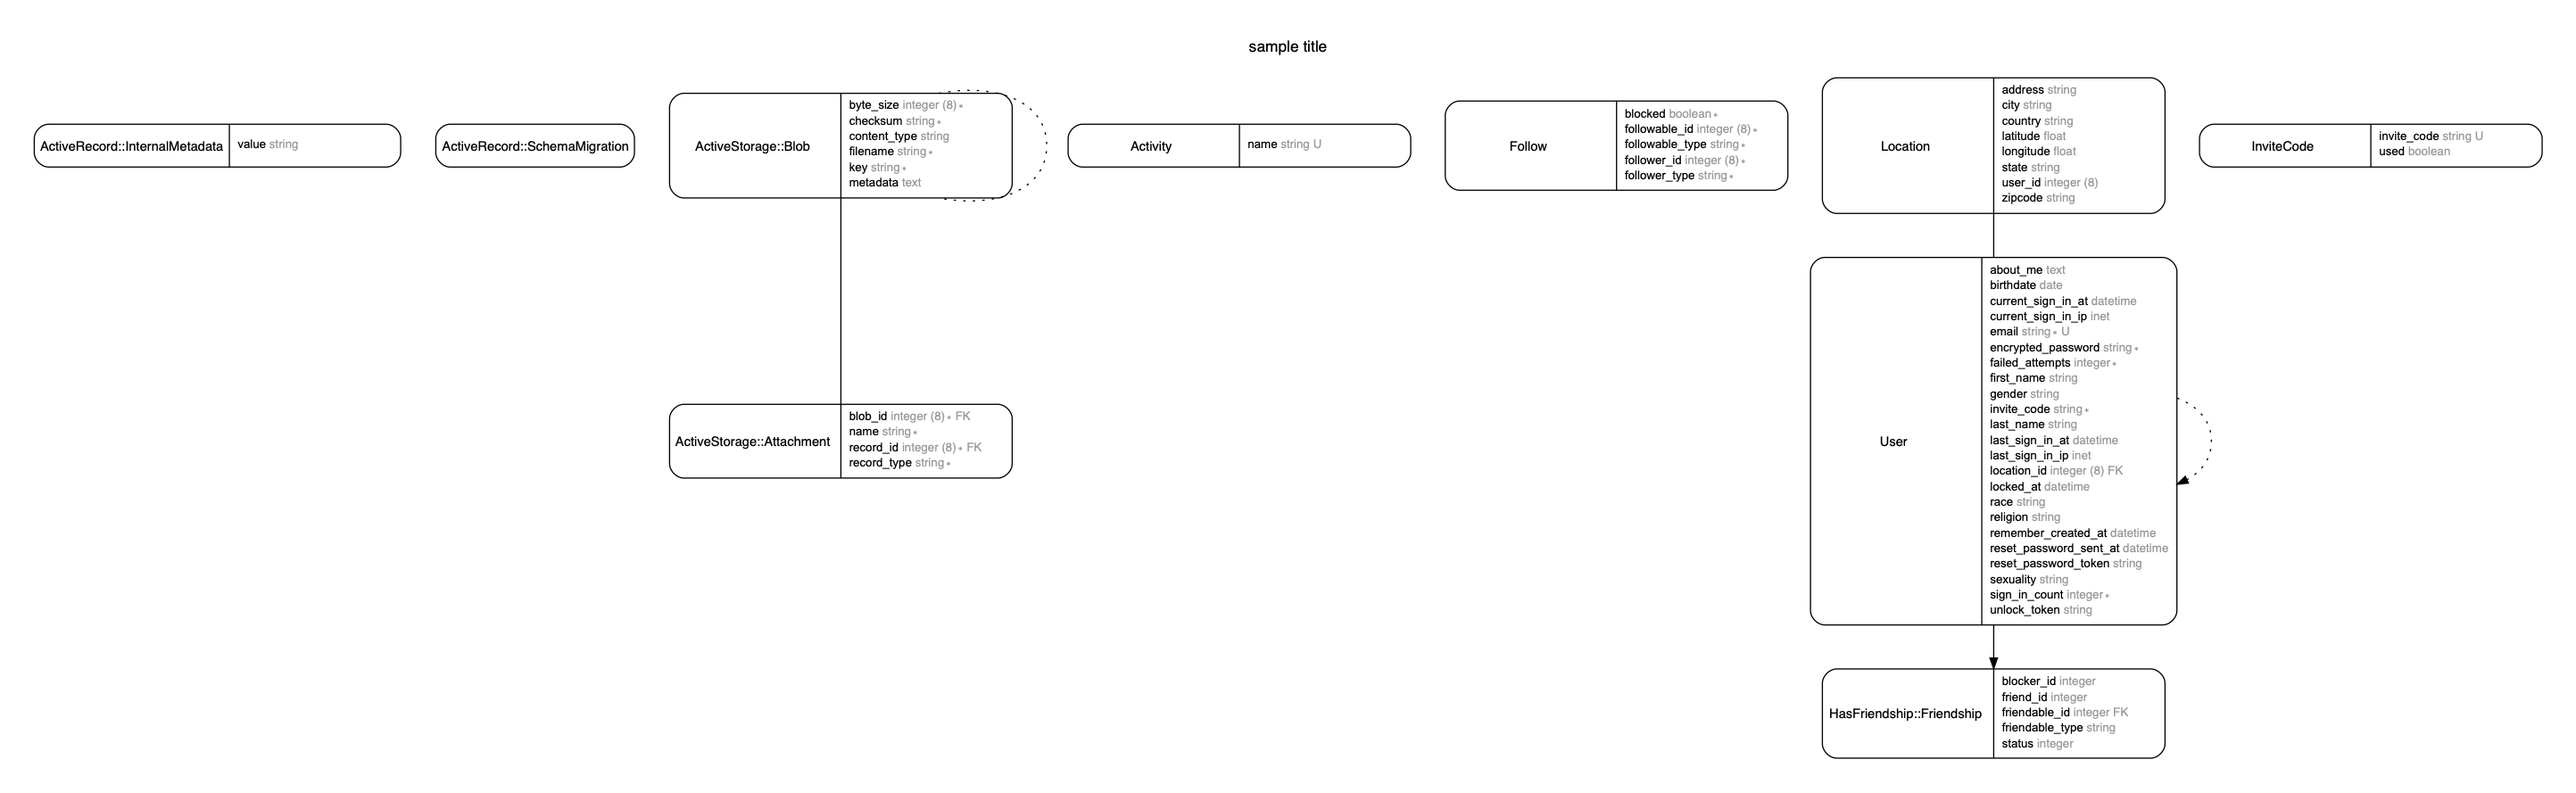
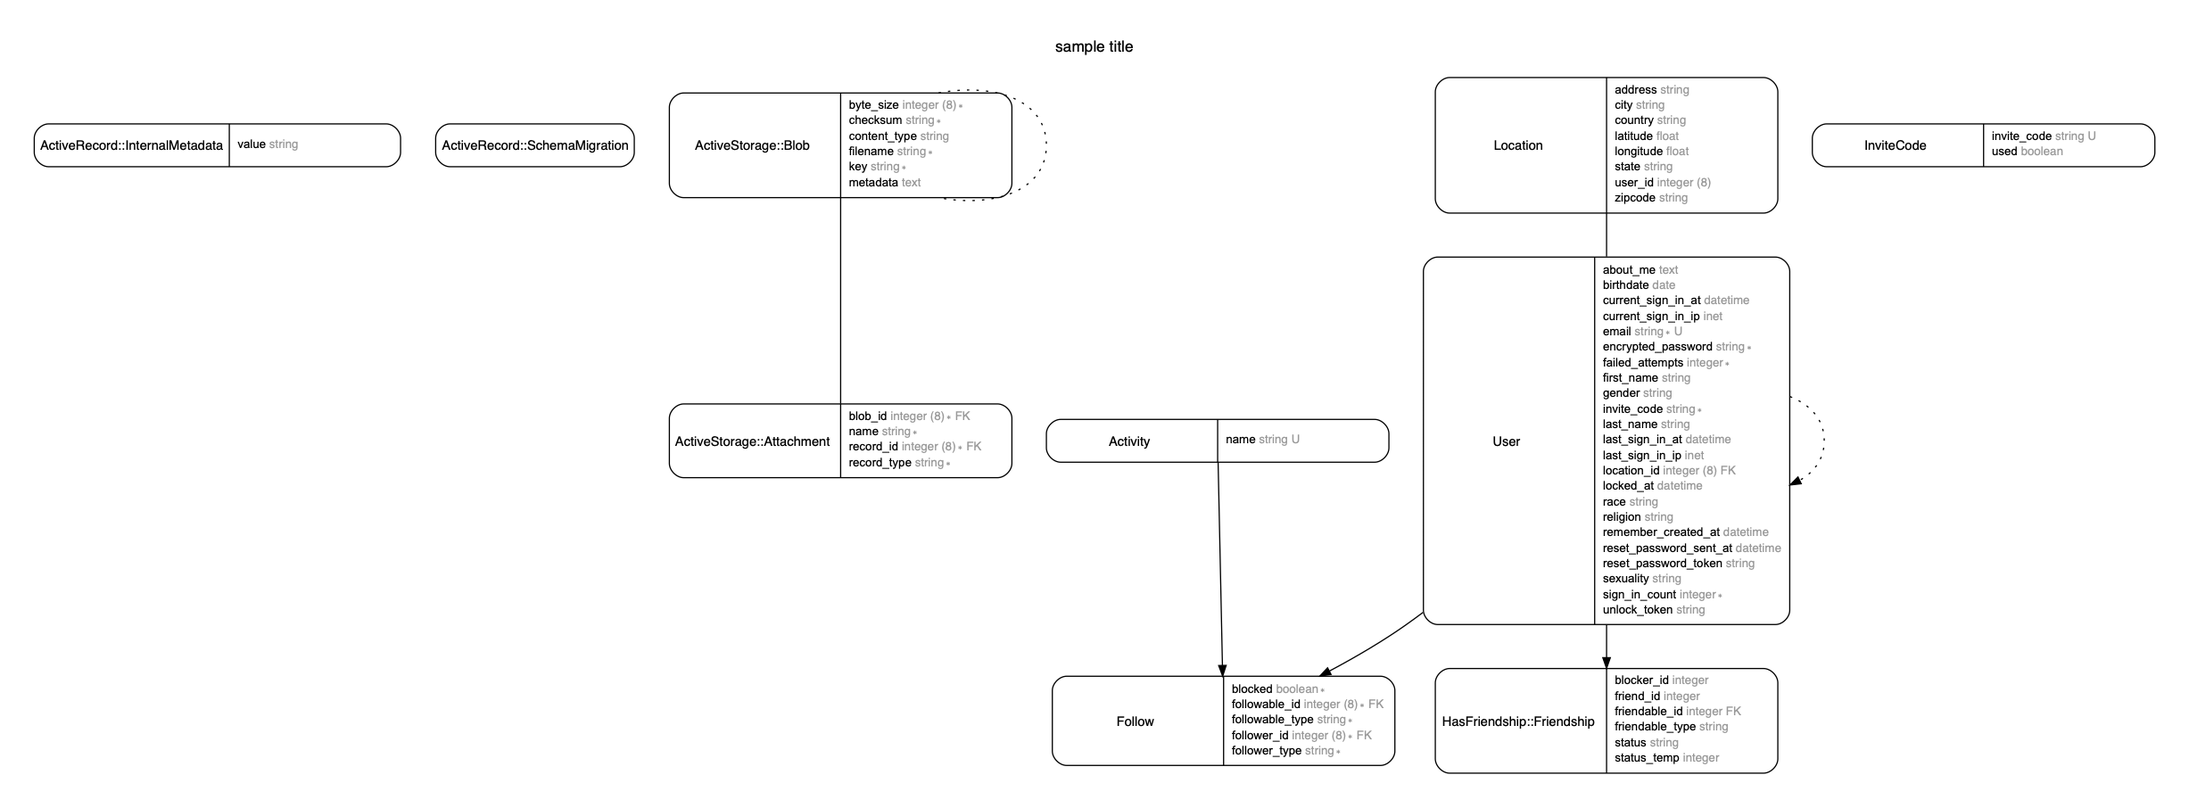
user friend request needs to be implmented next.

diff --git a/db/schema.rb b/db/schema.rb
@@ -74,16 +74,6 @@ ActiveRecord::Schema.define(version: 2019_08_13_183502) do
     t.datetime "updated_at", null: false
   end
 
-  create_table "likes", force: :cascade do |t|
-    t.string "liker_type"
-    t.integer "liker_id"
-    t.string "likeable_type"
-    t.integer "likeable_id"
-    t.datetime "created_at"
-    t.index ["likeable_id", "likeable_type"], name: "fk_likeables"
-    t.index ["liker_id", "liker_type"], name: "fk_likes"
-  end
-
   create_table "locations", force: :cascade do |t|
     t.float "latitude"
     t.float "longitude"
@@ -96,16 +86,6 @@ ActiveRecord::Schema.define(version: 2019_08_13_183502) do
     t.string "zipcode"
     t.bigint "user_id"
     t.index ["user_id"], name: "index_locations_on_user_id"
-  end
-
-  create_table "mentions", force: :cascade do |t|
-    t.string "mentioner_type"
-    t.integer "mentioner_id"
-    t.string "mentionable_type"
-    t.integer "mentionable_id"
-    t.datetime "created_at"
-    t.index ["mentionable_id", "mentionable_type"], name: "fk_mentionables"
-    t.index ["mentioner_id", "mentioner_type"], name: "fk_mentions"
   end
 
   create_table "users", force: :cascade do |t|

diff --git a/app/controllers/find_a_friend_controller.rb b/app/controllers/find_a_friend_controller.rb
@@ -54,10 +54,9 @@ class FindAFriendController < ApplicationController
     potential_friends = []
     
     our_activities_string = []
-    our_user = User.find current_user.id
 
     Activity.all.each do |activity|
-      if our_user.likes?(activity)
+      if current_user.following?(activity)
         our_activities_string.push(activity.name)
       end
     end
@@ -78,7 +77,7 @@ class FindAFriendController < ApplicationController
 
       
       Activity.all.each do |activity|
-        if other_user.likes?(activity)
+        if other_user.following?(activity)
           other_users_liked_activities.push(activity.name)
         end
       end
